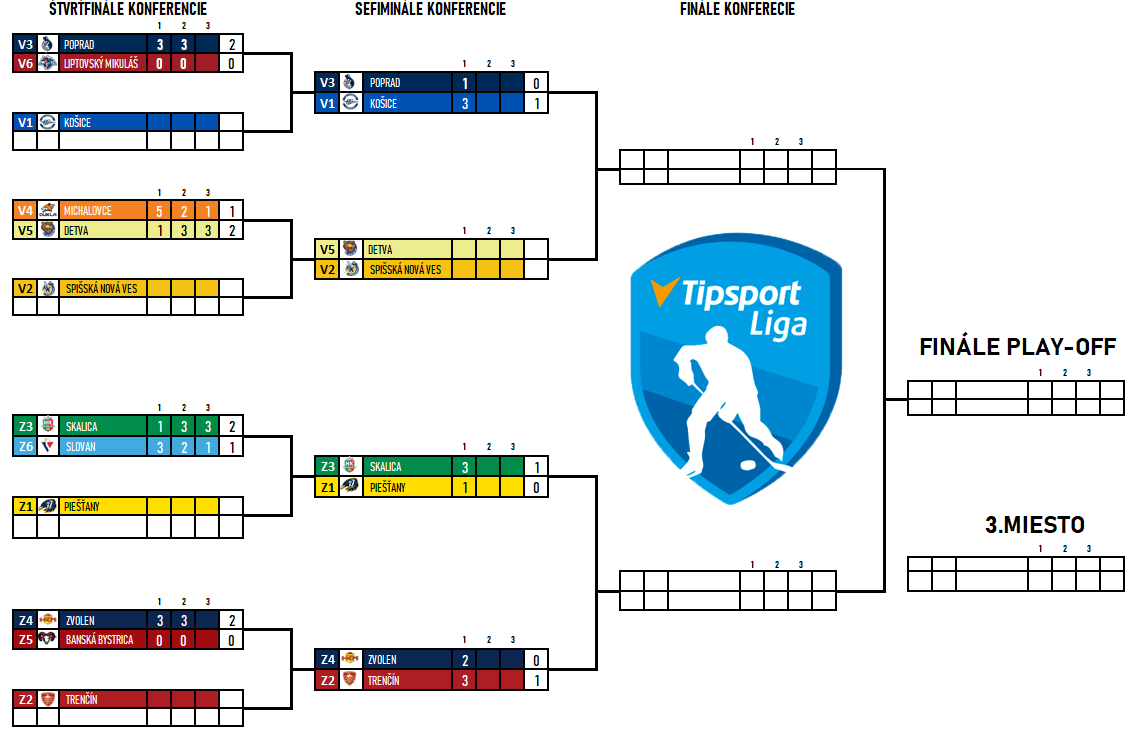
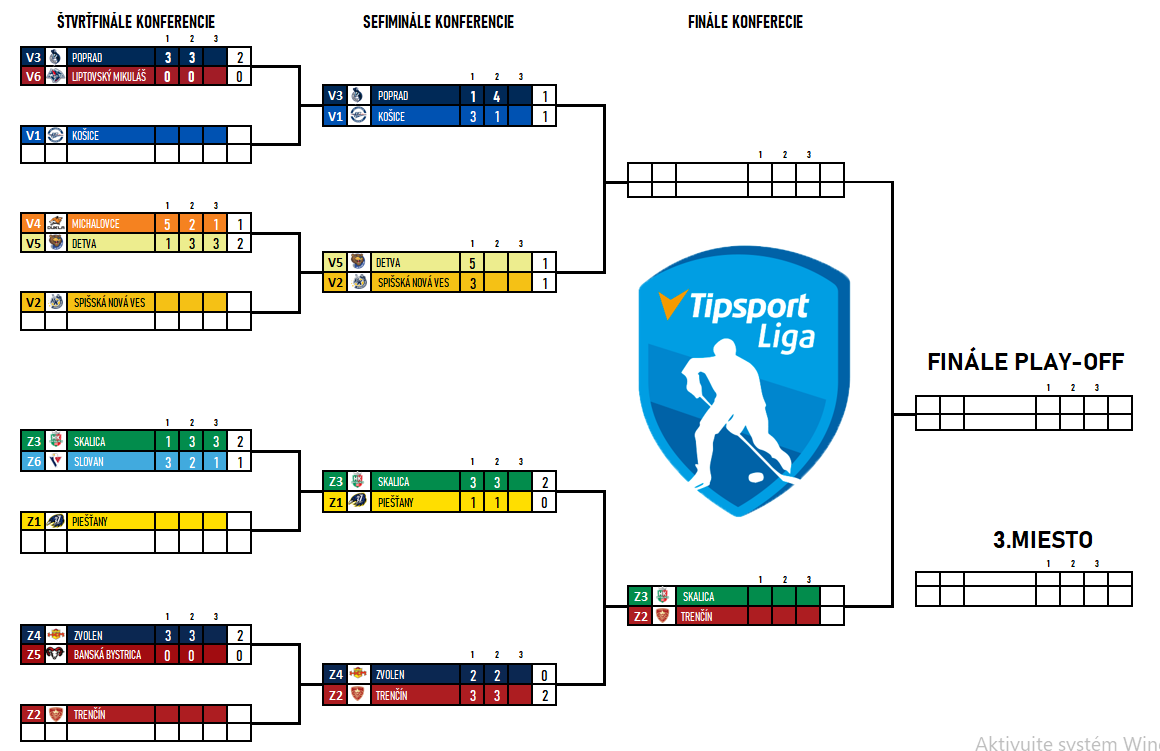
ss

diff --git a/play-off-rozpis.html b/play-off-rozpis.html
@@ -231,19 +231,19 @@
      
       <tr>
         <td class="datum">1.zápas </td>
-        <td class="logo"></td>
-        <td class="club-name"></td>
+        <td class="logo"><img src="images/trencin.png" height="19"></td>
+        <td class="club-name"><a href="https://www.hockeyarena.net/sk/index.php?p=public_team_info_basic.php&team_id=29244" style="text-decoration-style: none; color: black;">Trenčín</a></td>
         <td class="match"><b>:</b></td>
-        <td class="logo"></td>
-        <td class="club-name"></td>
+        <td class="logo"><img src="images/Skalica.png" height="19"></td>
+        <td class="club-name"><a href="https://www.hockeyarena.net/sk/index.php?p=public_team_info_basic.php&team_id=2991" style="text-decoration-style: none; color: black;">Skalica</a></td>
       </tr>
        <tr>
         <td class="datum">2.zápas </td>
-        <td class="logo"></td>
-        <td class="club-name"></td>
+        <td class="logo"><img src="images/Skalica.png" height="19"></td>
+        <td class="club-name"><a href="https://www.hockeyarena.net/sk/index.php?p=public_team_info_basic.php&team_id=2991" style="text-decoration-style: none; color: black;">Skalica</a></td>
         <td class="match"><b>:</b></td>
-        <td class="logo"></td>
-        <td class="club-name"></td>
+        <td class="logo"><img src="images/trencin.png" height="19"></td>
+        <td class="club-name"><a href="https://www.hockeyarena.net/sk/index.php?p=public_team_info_basic.php&team_id=29244" style="text-decoration-style: none; color: black;">Trenčín</a></td>
       </tr>
       <tr>
         <td class="datum" style="border-bottom: 2px solid black;">3.zápas </td>
@@ -297,17 +297,17 @@
         <td class="naplanovane" class="datum">2.zápas 12.7.2020</td>
         <td class="logo"><img src="images/poprad.png" height="19"></td>
         <td class="club-name"><a href="https://www.hockeyarena.net/sk/index.php?p=public_team_info_basic.php&team_id=7347" style="text-decoration-style: none; color: black;">Poprad</a></td>
-        <td class="match"><b>:</b></td>
+        <td class="match"><b>4:1</b></td>
         <td class="logo"><img src="images/kosice.png" height="19"></td>
         <td class="club-name"><a href="https://www.hockeyarena.net/sk/index.php?p=public_team_info_basic.php&team_id=9011" style="text-decoration-style: none; color: black;">Košice</a></td>
       </tr>
       <tr>
-        <td class="datum">3.zápas 15.7.2020</td>
-        <td class="logo"></td>
-        <td class="club-name"></td>
-        <td class="match"><b></b></td>
-        <td class="logo"></td>
-        <td class="club-name"></td>
+        <td  class="datum">3.zápas 18.7.2020</td>
+        <td class="logo"><img src="images/kosice.png" height="19"></td>
+        <td class="club-name"><a href="https://www.hockeyarena.net/sk/index.php?p=public_team_info_basic.php&team_id=9011" style="text-decoration-style: none; color: black;">Košice</a></td>
+        <td class="match"><b>:</b></td>
+        <td class="logo"><img src="images/poprad.png" height="19"></td>
+        <td class="club-name"><a href="https://www.hockeyarena.net/sk/index.php?p=public_team_info_basic.php&team_id=7347" style="text-decoration-style: none; color: black;">Poprad</a></td>
       </tr>
     <tr>
         <td style="border-bottom: 4px solid black;" ></td>
@@ -320,15 +320,15 @@
 
      
       <tr>
-        <td class="datum">1.zápas 12.7.2020</td>
+        <td class="naplanovane" class="datum">1.zápas 12.7.2020</td>
         <td class="logo"><img src="images/snv.png" height="19"></td>
         <td class="club-name"><a href="https://www.hockeyarena.net/sk/index.php?p=public_team_info_basic.php&team_id=25632" style="text-decoration-style: none; color: black;">Spišská</a></td>
-        <td class="match"><b>:</b></td>
+        <td class="match"><b>3:5</b></td>
         <td class="logo"><img src="images/detva.png" height="19"></td>
         <td class="club-name"><a href="https://www.hockeyarena.net/sk/index.php?p=public_team_info_basic.php&team_id=58552" style="text-decoration-style: none; color: black;">Detva</a></td>
       </tr>
        <tr>
-        <td class="datum">2.zápas 15.7.2020</td>
+        <td class="naplanovane" class="datum">2.zápas 15.7.2020</td>
         <td class="logo"><img src="images/detva.png" height="19"></td>
         <td class="club-name"><a href="https://www.hockeyarena.net/sk/index.php?p=public_team_info_basic.php&team_id=58552" style="text-decoration-style: none; color: black;">Detva</a></td>
         <td class="match"><b>:</b></td>
@@ -356,7 +356,7 @@
 
 
       <tr>
-        <td class="datum">1.zápas 11.7.2020</td>
+        <td class="naplanovane" class="datum">1.zápas 11.7.2020</td>
         <td class="logo"><img src="images/piestany.png" height="19"></td>
         <td class="club-name"><a href="https://www.hockeyarena.net/sk/index.php?p=public_team_info_basic.php&team_id=2589" style="text-decoration-style: none; color: black;">Piešťany</a></td>
         <td class="match"><b>1:3</b></td>
@@ -364,15 +364,15 @@
         <td class="club-name"><a href="https://www.hockeyarena.net/sk/index.php?p=public_team_info_basic.php&team_id=2991" style="text-decoration-style: none; color: black;">Skalica</a></td>
       </tr>
        <tr>
-        <td class="datum">2.zápas 12.7.2020</td>
+        <td class="naplanovane" class="datum">2.zápas 12.7.2020</td>
         <td class="logo"><img src="images/Skalica.png" height="19"></td>
         <td class="club-name"><a href="https://www.hockeyarena.net/sk/index.php?p=public_team_info_basic.php&team_id=2991" style="text-decoration-style: none; color: black;">Skalica</a></td>
-        <td class="match"><b>:</b></td>
+        <td class="match"><b>3:1</b></td>
         <td class="logo"><img src="images/piestany.png" height="19"></td>
         <td class="club-name"><a href="https://www.hockeyarena.net/sk/index.php?p=public_team_info_basic.php&team_id=2589" style="text-decoration-style: none; color: black;">Piešťany</a></td>
       </tr>
       <tr>
-        <td class="datum">3.zápas 15.7.2020</td>
+        <td class="datum">2.zápas 12.7.2020</td> 
         <td class="logo"></td>
         <td class="club-name"></td>
         <td class="match"><b></b></td>
@@ -400,7 +400,7 @@
         <td class="naplanovane" class="datum">2.zápas 12.7.2020</td>
         <td class="logo"><img src="images/zvolen.png" height="13"></td>
         <td class="club-name"><a href="https://www.hockeyarena.net/sk/index.php?p=public_team_info_basic.php&team_id=19732" style="text-decoration-style: none; color: black;">Zvolen</a></td>
-        <td class="match"><b>:</b></td>
+        <td class="match"><b>2:3</b></td>
         <td class="logo"><img src="images/trencin.png" height="17"></td>
         <td class="club-name"><a href="https://www.hockeyarena.net/sk/index.php?p=public_team_info_basic.php&team_id=29244" style="text-decoration-style: none; color: black;">Trenčín</a></td>
       </tr>
